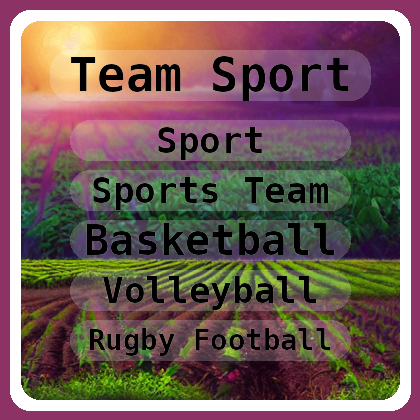
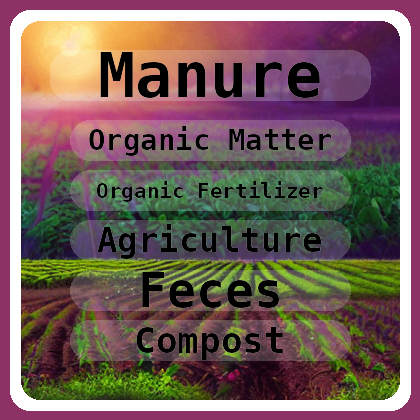
update docs

diff --git a/README.md b/README.md
@@ -32,63 +32,27 @@ im
 ![](index_files/figure-gfm/cell-4-output-1.png)
 
 ``` python
-taboo_words = load_taboo_words("./test_data/taboo_cards/Football.json")["cards"]
-taboo_words
+taboo_words = load_taboo_words("./test_data/taboo_cards/Organic farming.json")["cards"]
+taboo_words[:2]
 ```
 
-    [{'Team sport': ['Sport',
-       'Sports team',
-       'Basketball',
-       'Volleyball',
-       'Rugby football',
-       'Water polo',
-       'Handball',
-       'Lacrosse',
-       'Cricket',
-       'Baseball']},
-     {'Kick (football)': ['Football']},
-     {'Football (ball)': ['Ball',
-       'Football',
-       'Goal (sports)',
-       'Score (sport)',
-       'Pitch (sports field)',
-       'Pig bladder']},
-     {'Goal (sports)': ['Ball',
-       'Hockey puck',
-       'Score (sport)',
-       'Backboard (basketball)']},
-     {'Football (word)': []},
-     {'Association football': ['Team sport',
-       'Football player',
-       'Ball (association football)',
-       'Football pitch',
-       'Scoring in association football',
-       'Goal (sports)']},
-     {'Gridiron football': ['North America',
-       'Football',
-       'United States',
-       'Canada',
-       'American football',
-       'Canadian football',
-       'Indoor American football',
-       'Eight-man football',
-       'Flag football',
-       'Touch football (American)']},
-     {'American football': ['Team sport',
-       'American football field',
-       'Offense (sports)',
-       'Ball (gridiron football)',
-       'Rush (gridiron football)',
-       'Forward pass',
-       'Defense (sports)',
-       'Down (gridiron football)',
-       'Turnover on downs',
-       'Glossary of American football terms']},
-     {'Canadian football': ['Team sport', 'Canada', 'End zone']},
-     {'Australian rules football': ['Contact sport',
-       'Australian rules football playing field',
-       'Ground (cricket)',
-       'Football (ball)']}]
+    [{'Manure': ['Organic matter',
+       'Organic fertilizer',
+       'Agriculture',
+       'Feces',
+       'Compost',
+       'Green manure',
+       'Soil fertility',
+       'Nutrient',
+       'Nitrogen',
+       'Bacteria']},
+     {'Green manure': ['Agriculture',
+       'Biomass (ecology)',
+       'Manure',
+       'Soil organic matter',
+       'Legume',
+       'Organic farming',
+       'Intensive farming']}]
 
 ``` python
 add_taboo_words(im, taboo_words[0])
@@ -97,7 +61,7 @@ add_taboo_words(im, taboo_words[0])
 ![](index_files/figure-gfm/cell-6-output-1.png)
 
 ``` python
-add_taboo_words(im, taboo_words[1])
+add_taboo_words(im, taboo_words[2])
 ```
 
 ![](index_files/figure-gfm/cell-7-output-1.png)
